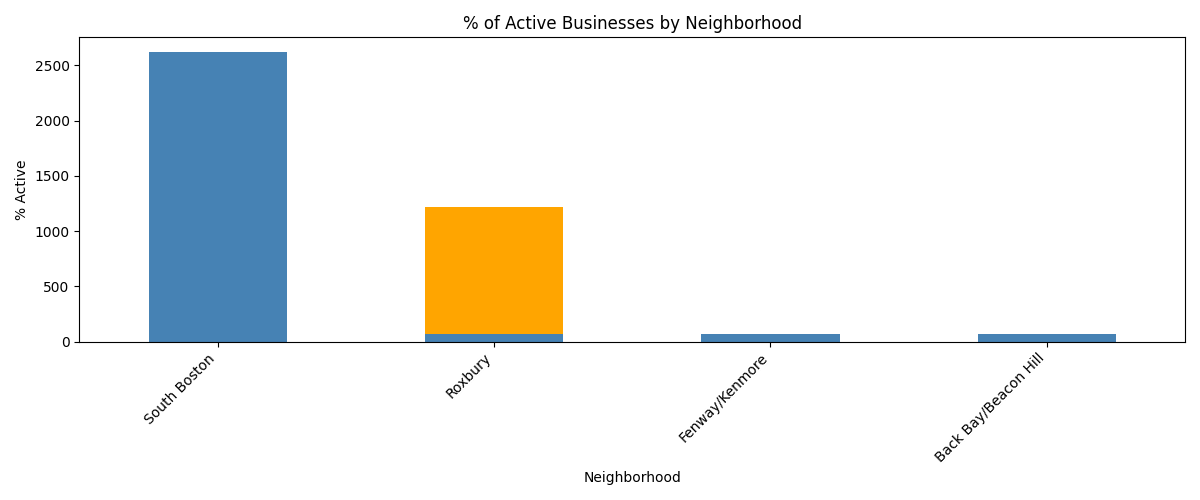
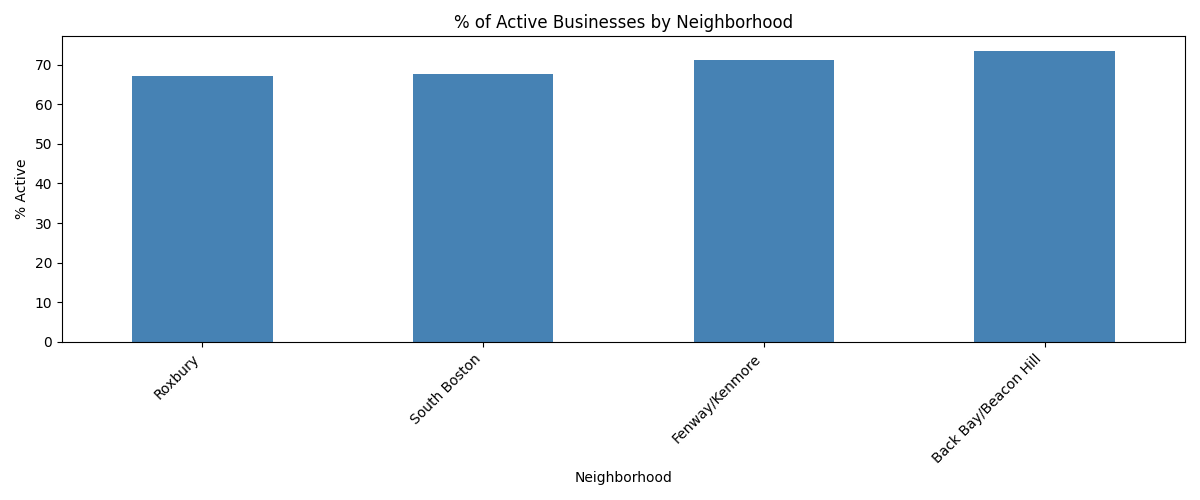
changed file pathway

diff --git a/src/doing_business_as_eda.py b/src/doing_business_as_eda.py
@@ -15,7 +15,7 @@ today = pd.Timestamp.today()
 dba['is_active'] = (dba['Date of Expiration'] > today)
 
 # map data to neighborhood, same as food/drink licenses zips
-zip_to_neighborhood = {z: n for n, zips in ZIPS_BY_NEIGHBORHOOD.items() for z in zips}
+zip_to_neighborhood = {z: n for n, zips in shared.ZIPS_BY_NEIGHBORHOOD.items() for z in zips}
 dba['neighborhood'] = dba['Zipcode'].map(zip_to_neighborhood)
 dba = dba.dropna(subset=['neighborhood'])
 
